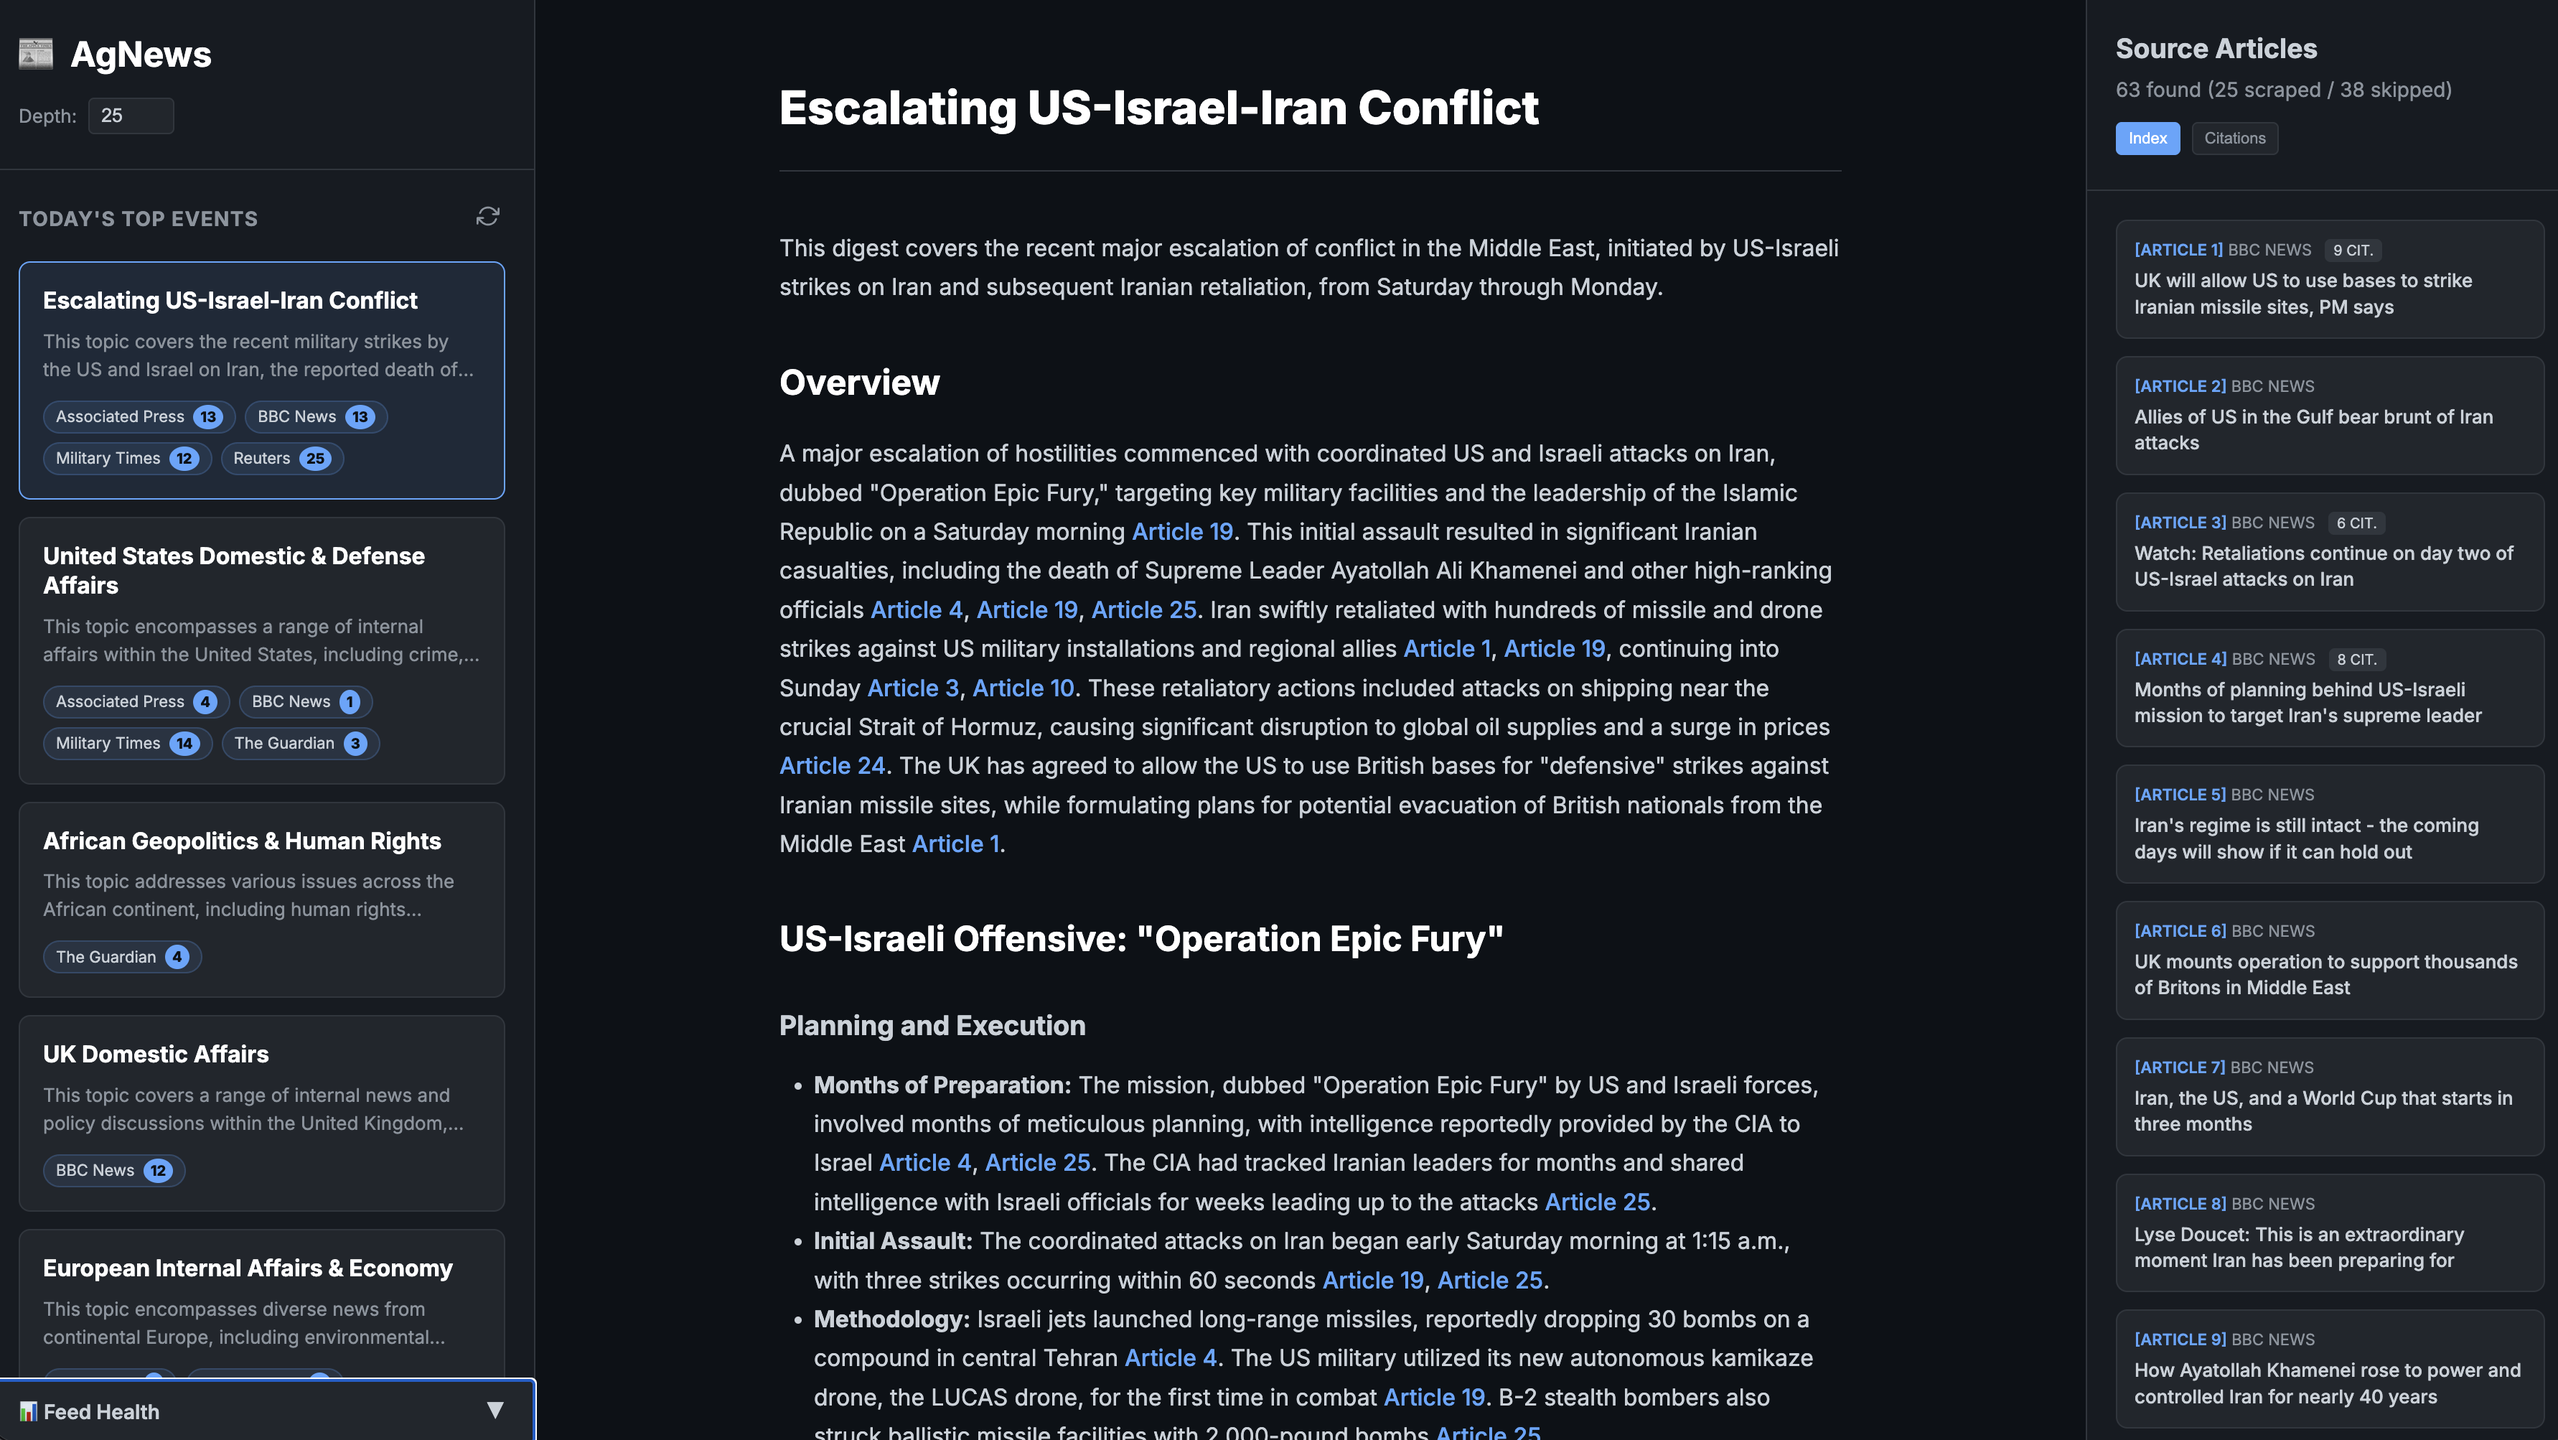
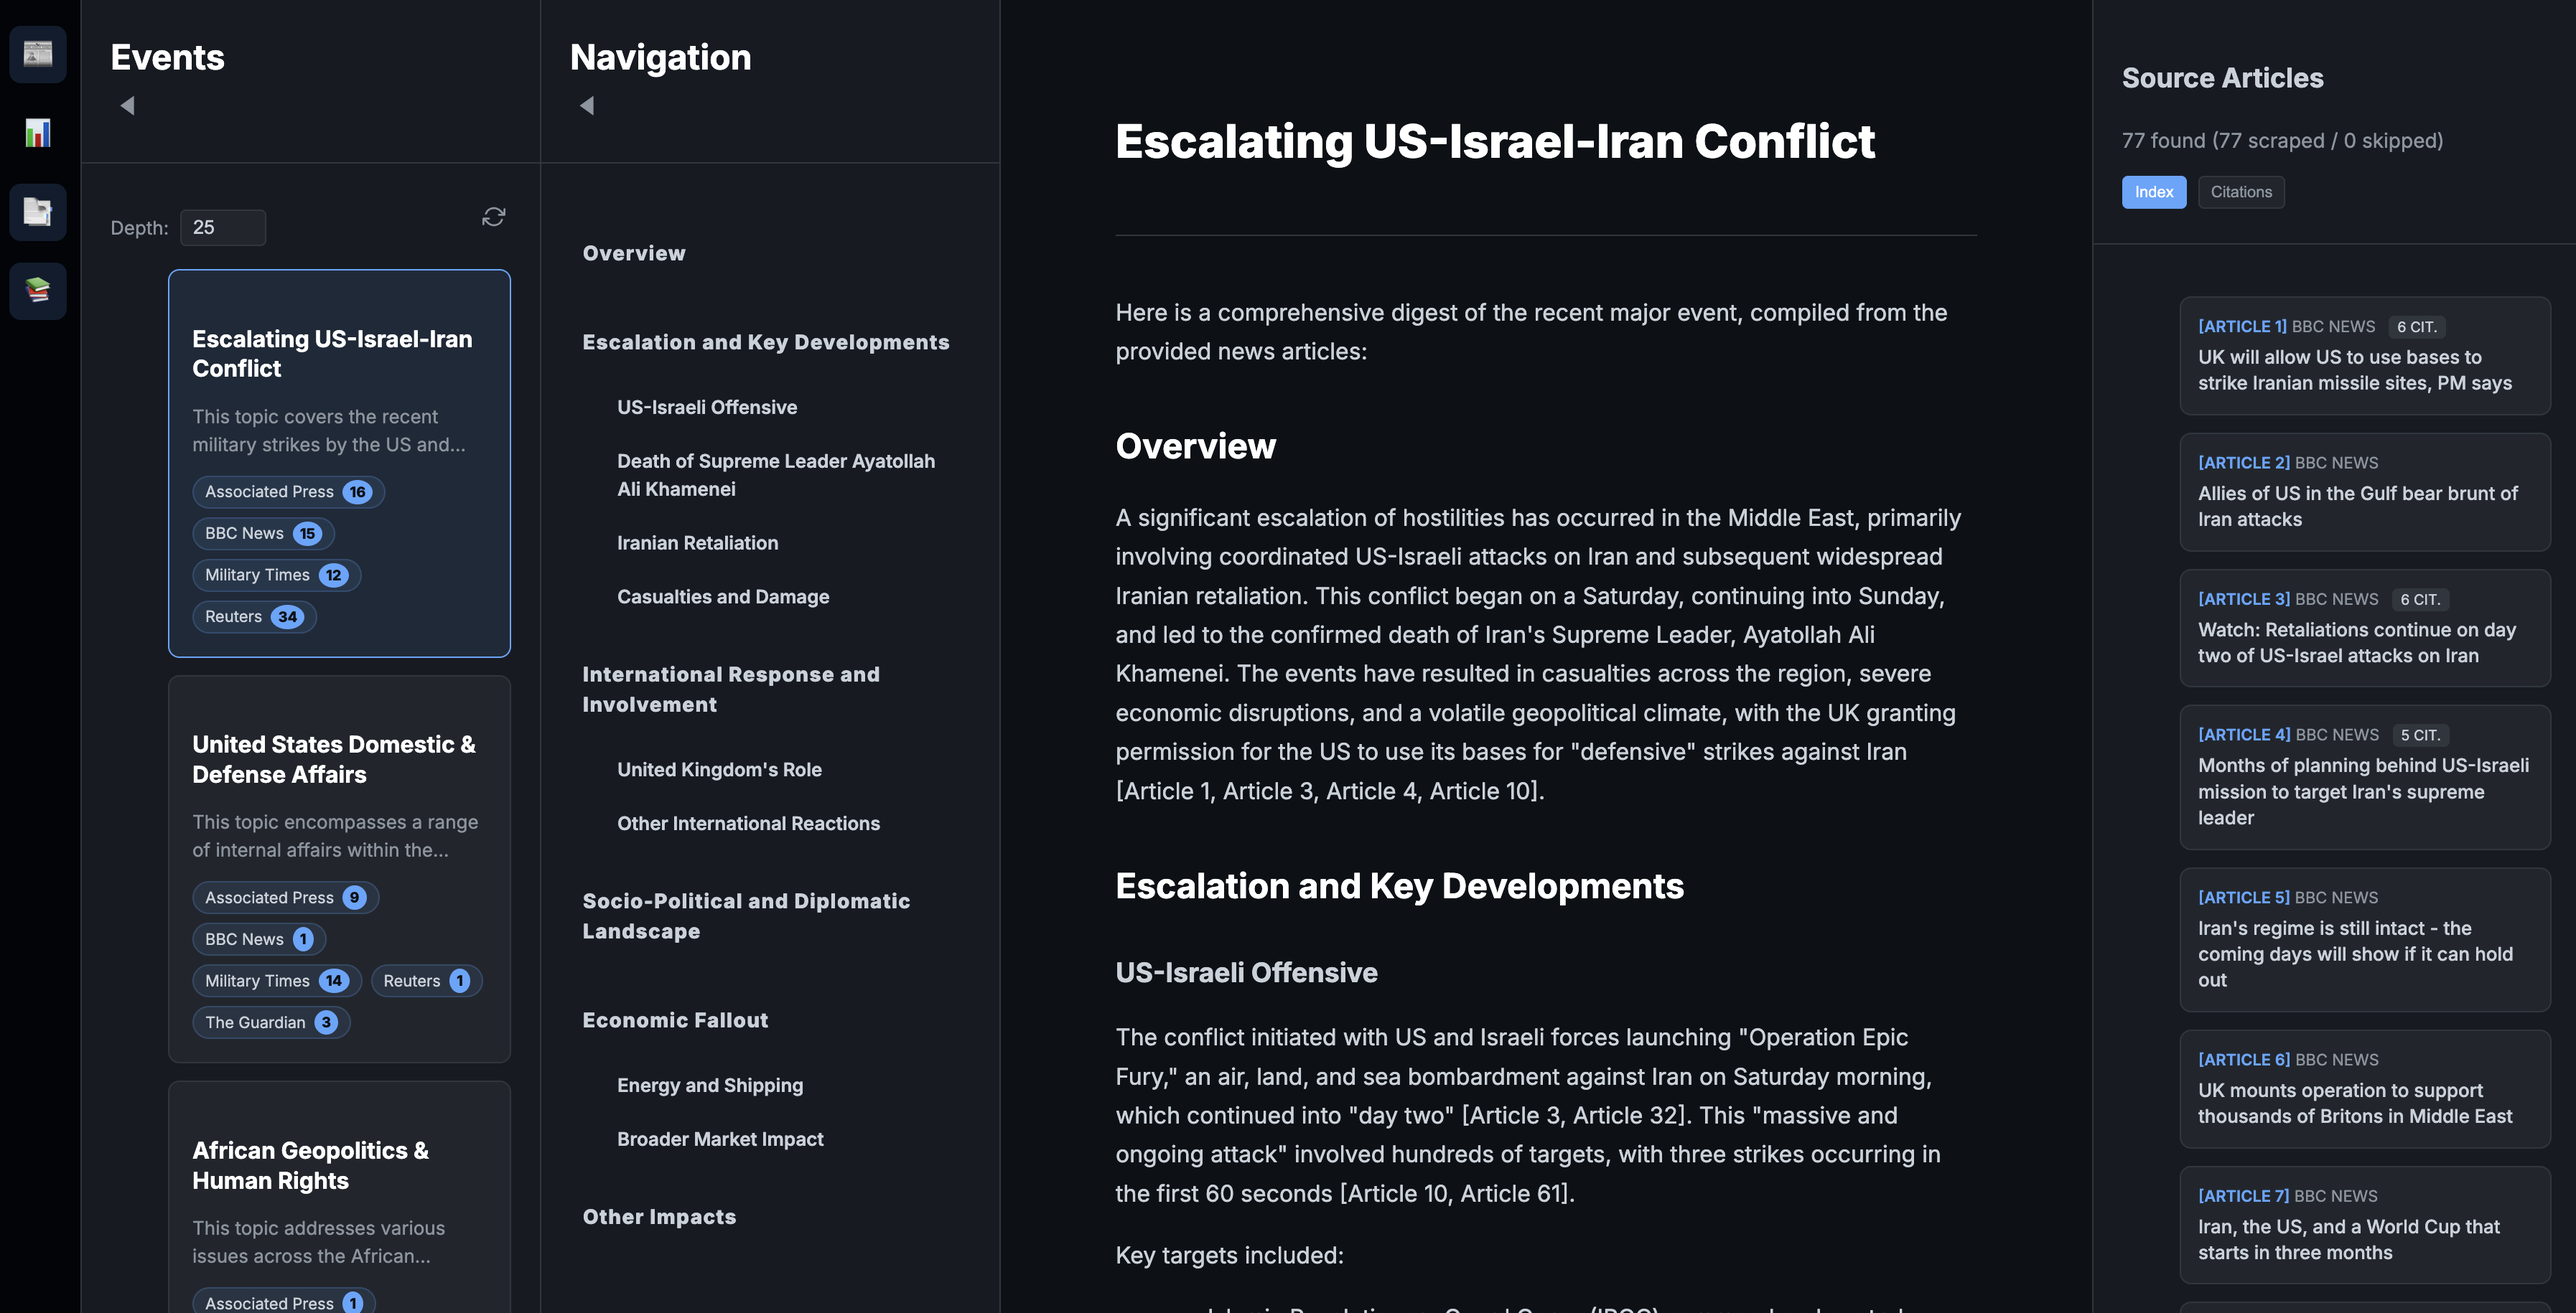
default to cache version, fix vertical scroll in panel

diff --git a/static/app.js b/static/app.js
@@ -1,5 +1,5 @@
 document.addEventListener('DOMContentLoaded', () => {
-    fetchTopics();
+    fetchTopics(false); // Initial load: try cache first
 
     // -- Mini Strip Navigation --
     document.getElementById('btn-show-topics').addEventListener('click', () => {
@@ -32,7 +32,7 @@ document.addEventListener('DOMContentLoaded', () => {
     });
 
     document.getElementById('refresh-btn').addEventListener('click', () => {
-        fetchTopics();
+        fetchTopics(true); // Explicit refresh: fetch new
     });
 
     document.getElementById('sort-num-btn').addEventListener('click', () => {
@@ -66,18 +66,25 @@ let currentArticles = [];
 let currentCitations = {};
 let currentSort = 'number';
 
-async function fetchTopics() {
+async function fetchTopics(isRefresh = true) {
     const topicList = document.getElementById('topic-list');
     const loadingState = document.getElementById('loading-topics');
     const errorState = document.getElementById('error-topics');
+    const statusText = document.getElementById('status-text-topics');
 
     topicList.classList.add('hidden');
     errorState.classList.add('hidden');
     loadingState.classList.remove('hidden');
 
+    if (!isRefresh) {
+        statusText.innerText = "Loading cached topics...";
+    } else {
+        statusText.innerText = "Clustering latest headlines...";
+    }
+
     try {
         const limitVal = document.getElementById('feed-limit').value || 25;
-        const res = await fetch(`/api/topics?limit=${limitVal}`);
+        const res = await fetch(`/api/topics?limit=${limitVal}&refresh=${isRefresh}`);
 
         if (res.status === 429) {
             const data = await res.json();
@@ -104,7 +111,7 @@ async function fetchTopics() {
         errorState.classList.remove('hidden');
         errorState.innerHTML = `
             <p>Failed to load topics.</p>
-            <button class="retry-btn" onclick="fetchTopics()">Try Again</button>
+            <button class="retry-btn" onclick="fetchTopics(true)">Try Again</button>
         `;
     }
 }

diff --git a/static/style.css b/static/style.css
@@ -42,6 +42,8 @@ body {
     border-right: 1px solid var(--border);
     z-index: 10;
     flex-shrink: 0;
+    display: flex;
+    flex-direction: column;
     transition: transform 0.3s cubic-bezier(0.4, 0, 0.2, 1), width 0.3s ease, margin-left 0.3s ease;
 }
 
@@ -100,6 +102,8 @@ body {
     width: 300px;
     background-color: var(--sidebar-bg);
     border-right: 1px solid var(--border);
+    display: flex;
+    flex-direction: column;
     transition: margin-left 0.3s cubic-bezier(0.4, 0, 0.2, 1), width 0.3s ease;
     z-index: 5;
     flex-shrink: 0;
@@ -595,6 +599,12 @@ body {
 }
 
 /* Header Navigation Hierarchy */
+.nav-hierarchy-container {
+    flex: 1;
+    overflow-y: auto;
+    padding: 0 10px;
+}
+
 .header-nav-list {
     display: flex;
     flex-direction: column;

diff --git a/api/handlers.go b/api/handlers.go
@@ -41,12 +41,45 @@ func (app *AppState) HandleGetTopics(w http.ResponseWriter, r *http.Request) {
 
 	ctx := context.Background()
 
-	// Parse limit from query, default to 15
+	// Parse limit and refresh from query
 	limit := 15
 	if limitStr := r.URL.Query().Get("limit"); limitStr != "" {
 		if l, err := strconv.Atoi(limitStr); err == nil && l > 0 && l <= 50 {
 			limit = l
 		}
+	}
+	refresh := r.URL.Query().Get("refresh") != "false"
+
+	// 1. If not refreshing, try to load from cache immediately
+	if !refresh {
+		clusters, err := services.LoadClustersCache()
+		if err == nil && len(clusters) > 0 {
+			log.Printf("Loading topics from cache (refresh=false)...\n")
+			// Reconstruct basic feed stats from cached data
+			feedStats := make(map[string]ingest.FeedStatus)
+			for _, f := range app.Feeds {
+				feedStats[f.Name] = ingest.FeedStatus{Name: f.Name, URL: f.URL}
+			}
+			for _, c := range clusters {
+				for _, a := range c.Articles {
+					if s, ok := feedStats[a.SourceName]; ok {
+						s.CachedCount++
+						feedStats[a.SourceName] = s
+					}
+				}
+			}
+
+			app.Clusters = clusters
+			app.FeedStats = feedStats
+
+			w.Header().Set("Content-Type", "application/json")
+			json.NewEncoder(w).Encode(TopicsResponse{
+				Clusters:  clusters,
+				FeedStats: feedStats,
+			})
+			return
+		}
+		log.Println("No cache found or error loading cache, proceeding to fetch...")
 	}
 
 	// 1. Fetch RSS items
